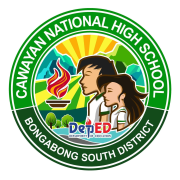
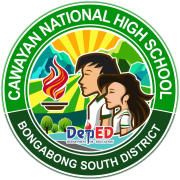
design: academic look (serif headings, gold rules), green-covered hero, seal without white edge

diff --git a/resources/js/pages/Welcome.vue b/resources/js/pages/Welcome.vue
@@ -1,26 +1,32 @@
 <script setup lang="ts">
 import { Head, Link, usePage } from '@inertiajs/vue3';
-import { CircleCheck, ClipboardList, FileText, GraduationCap, Mail, MapPin, Phone, QrCode, UserPlus } from '@lucide/vue';
+import { ClipboardCheck, FileText, GraduationCap, Mail, MapPin, Phone, QrCode, ShieldCheck, UserPlus } from '@lucide/vue';
 import { dashboard, login, register } from '@/routes';
 
 /**
- * Home page for visitors. School details come from config/eskwelahub.php (shared
- * as page.props.school) so the school can correct them without touching code.
+ * Home page. A formal, academic layout: serif headings, a gold rule, and a
+ * hero photo covered with transparent school green.
+ *
+ * HERO PHOTO: put the school's own photo at public/images/school-hero.jpg
+ * (a wide landscape picture, 1600 px or wider). It is drawn on top of
+ * hero-scenery.jpg (made from the school seal), which shows until the photo exists.
+ *
+ * School details come from config/eskwelahub.php (page.props.school).
  */
 const page = usePage();
 const school = page.props.school;
 
 const services = [
-    { icon: UserPlus, title: 'Online enrollment', text: 'New Grade 7 students and transferees fill in one form and upload their documents. No need to line up first.' },
-    { icon: FileText, title: 'Request school records', text: 'Ask for Form 137, a certificate of graduation or a certificate of enrollment, and follow every step of your request.' },
-    { icon: QrCode, title: 'Genuine documents', text: 'Every document has a QR code. Anyone can scan it to check that the school really issued it.' },
-    { icon: ClipboardList, title: 'Your records, private', text: 'Parents and learners see only their own records, after the registrar confirms who they are.' },
+    { icon: UserPlus, title: 'Online Enrollment', text: 'New Grade 7 learners and transferees submit one form with their documents. The registrar reviews it and you are told the decision by email.' },
+    { icon: FileText, title: 'Records and Certifications', text: 'Request Form 137, a certificate of graduation or a certificate of enrollment, and follow each step of the request.' },
+    { icon: QrCode, title: 'Document Verification', text: 'Every document carries a QR code. Anyone can scan it to confirm that the school issued the document.' },
+    { icon: ShieldCheck, title: 'Protected Records', text: 'Learner records are private. Parents and learners see only their own records, after the registrar confirms their identity.' },
 ];
 
 const steps = [
-    { n: 1, title: 'Create an account', text: 'Register with your email address.' },
-    { n: 2, title: 'Link the learner', text: 'Enter the learner\'s LRN and birthdate. The registrar confirms the link.' },
-    { n: 3, title: 'Enroll or request', text: 'Send your form or request and get an email at every step.' },
+    { n: 'I', title: 'Register an account', text: 'Create an account with your email address.' },
+    { n: 'II', title: 'Link the learner', text: 'Enter the learner\'s LRN and birthdate. The registrar confirms the link.' },
+    { n: 'III', title: 'Enroll or request', text: 'Send the enrollment form or the document request and follow it online.' },
 ];
 </script>
 
@@ -30,141 +36,159 @@ const steps = [
     </Head>
 
     <div class="min-h-screen bg-background text-foreground">
-        <!-- Top bar -->
-        <header class="border-b bg-background/80 backdrop-blur">
+        <!-- Official strip -->
+        <div class="bg-[#0d4a1c] text-[11px] tracking-wide text-white/85 uppercase">
+            <div class="mx-auto flex max-w-6xl flex-wrap items-center justify-between gap-x-6 gap-y-1 px-4 py-1.5">
+                <span>Republic of the Philippines &middot; Department of Education</span>
+                <span>{{ school.district }} &middot; School ID {{ school.school_id }}</span>
+            </div>
+        </div>
+        <div class="h-1 bg-gold"></div>
+
+        <!-- Header -->
+        <header class="border-b bg-background">
             <nav class="mx-auto flex max-w-6xl items-center justify-between gap-4 px-4 py-3">
                 <Link href="/" class="flex items-center gap-3">
-                    <img src="/images/cnhs-logo-96.png" srcset="/images/cnhs-logo-96.png 1x, /images/cnhs-logo-256.png 2x" alt="" class="size-10 rounded-full" />
+                    <img src="/images/cnhs-logo-96.png" srcset="/images/cnhs-logo-96.png 1x, /images/cnhs-logo-256.png 2x" alt="" class="size-12" />
                     <span class="leading-tight">
-                        <span class="block text-sm font-semibold">{{ page.props.name }}</span>
-                        <span class="block text-xs text-muted-foreground">{{ school.name }}</span>
+                        <span class="block font-serif text-lg font-bold">{{ school.name }}</span>
+                        <span class="block text-xs tracking-wide text-muted-foreground uppercase">{{ page.props.name }} &middot; School Portal</span>
                     </span>
                 </Link>
-                <div class="flex items-center gap-2">
-                    <Link
-                        v-if="page.props.auth.user"
-                        :href="dashboard()"
-                        class="rounded-md bg-primary px-4 py-2 text-sm font-medium text-primary-foreground hover:opacity-90"
-                    >
+                <div class="flex items-center gap-1 text-sm">
+                    <a href="#services" class="hidden rounded-md px-3 py-2 hover:bg-muted md:block">Services</a>
+                    <a href="#process" class="hidden rounded-md px-3 py-2 hover:bg-muted md:block">How it works</a>
+                    <a href="#contact" class="hidden rounded-md px-3 py-2 hover:bg-muted md:block">Contact</a>
+                    <Link v-if="page.props.auth.user" :href="dashboard()" class="ml-2 rounded-md bg-primary px-4 py-2 font-medium text-primary-foreground hover:opacity-90">
                         Dashboard
                     </Link>
                     <template v-else>
-                        <Link :href="login()" class="rounded-md px-4 py-2 text-sm font-medium hover:bg-muted">Log in</Link>
-                        <Link :href="register()" class="rounded-md bg-primary px-4 py-2 text-sm font-medium text-primary-foreground hover:opacity-90">
-                            Register
-                        </Link>
+                        <Link :href="login()" class="ml-2 rounded-md border px-4 py-2 font-medium hover:bg-muted">Log in</Link>
+                        <Link :href="register()" class="rounded-md bg-primary px-4 py-2 font-medium text-primary-foreground hover:opacity-90">Register</Link>
                     </template>
                 </div>
             </nav>
         </header>
 
-        <!-- Hero: the colours of the school seal (green, with the sun's yellow and orange) -->
-        <section class="relative overflow-hidden bg-gradient-to-br from-[#0b8a1c] via-[#0f6b25] to-[#14532d] text-white">
-            <div class="absolute -top-24 -right-24 size-96 rounded-full bg-[#f9d71c]/20 blur-3xl"></div>
-            <div class="absolute -bottom-32 -left-16 size-96 rounded-full bg-[#f59e0b]/15 blur-3xl"></div>
-            <div class="relative mx-auto grid max-w-6xl items-center gap-10 px-4 py-14 md:grid-cols-[1.3fr_1fr] md:py-20">
+        <!-- Hero: school photo covered with transparent green -->
+        <section class="hero relative isolate overflow-hidden text-white">
+            <div class="absolute inset-0 -z-20 bg-cover bg-center" style="background-image: url('/images/school-hero.jpg'), url('/images/hero-scenery.jpg')"></div>
+            <div class="absolute inset-0 -z-10 bg-gradient-to-r from-[#0a4d1a]/95 via-[#0d6b25]/85 to-[#0d6b25]/55"></div>
+            <div class="absolute inset-x-0 bottom-0 -z-10 h-32 bg-gradient-to-t from-[#06330f]/80 to-transparent"></div>
+
+            <div class="mx-auto grid max-w-6xl items-center gap-10 px-4 py-16 md:grid-cols-[1.4fr_1fr] md:py-24">
                 <div>
-                    <p class="mb-3 inline-block rounded-full bg-white/15 px-3 py-1 text-xs font-medium tracking-wide uppercase">
-                        {{ school.district }} - Department of Education
+                    <p class="mb-4 flex items-center gap-3 text-xs font-semibold tracking-[0.2em] text-[#f1d36a] uppercase">
+                        <span class="h-px w-10 bg-gold"></span> Office of the Registrar
                     </p>
-                    <h1 class="text-3xl leading-tight font-bold md:text-5xl">
-                        {{ school.name }}
-                        <span class="block text-[#f9d71c]">Online Portal</span>
-                    </h1>
-                    <p class="mt-4 max-w-xl text-base text-white/90 md:text-lg">
-                        Enroll online, request your school records and follow every step from your phone or computer.
+                    <h1 class="font-serif text-4xl leading-tight font-bold md:text-6xl">{{ school.name }}</h1>
+                    <p class="mt-3 font-serif text-xl text-white/90 italic md:text-2xl">Online Enrollment and Student Records Portal</p>
+                    <p class="mt-5 max-w-xl text-base text-white/85">
+                        Enroll your child, request school records and follow every step of your request, from your phone or computer.
                     </p>
-                    <div class="mt-6 flex flex-wrap gap-3">
-                        <Link :href="page.props.auth.user ? '/my-enrollments/create' : register()" class="rounded-md bg-[#f9d71c] px-5 py-2.5 text-sm font-semibold text-[#14532d] hover:bg-[#f5c800]">
-                            Enroll online
+                    <div class="mt-8 flex flex-wrap gap-3">
+                        <Link :href="page.props.auth.user ? '/my-enrollments/create' : register()" class="rounded-md bg-gold px-6 py-3 text-sm font-semibold text-[#0a3d14] shadow hover:brightness-105">
+                            Enroll Online
                         </Link>
-                        <Link :href="page.props.auth.user ? '/my-requests/create' : login()" class="rounded-md border border-white/60 px-5 py-2.5 text-sm font-semibold hover:bg-white/10">
-                            Request a document
+                        <Link :href="page.props.auth.user ? '/my-requests/create' : login()" class="rounded-md border border-white/70 px-6 py-3 text-sm font-semibold hover:bg-white/10">
+                            Request a Document
                         </Link>
                     </div>
-                    <p class="mt-6 text-sm text-white/80">Need help? Tap the round chat button at the bottom right.</p>
                 </div>
-                <div class="flex justify-center">
+                <div class="flex justify-center md:justify-end">
                     <img
                         src="/images/cnhs-logo.png"
                         :alt="`Official seal of ${school.name}`"
-                        class="size-56 rounded-full bg-white p-1 shadow-2xl ring-4 ring-white/30 md:size-72"
+                        class="size-52 drop-shadow-[0_10px_30px_rgba(0,0,0,0.45)] md:size-72"
                     />
                 </div>
             </div>
         </section>
 
-        <!-- What you can do -->
-        <section class="mx-auto max-w-6xl px-4 py-14">
-            <h2 class="text-2xl font-semibold">What you can do here</h2>
-            <div class="mt-6 grid gap-4 sm:grid-cols-2 lg:grid-cols-4">
-                <article v-for="s in services" :key="s.title" class="rounded-xl border p-5">
-                    <div class="mb-3 flex size-10 items-center justify-center rounded-lg bg-primary/10 text-primary">
-                        <component :is="s.icon" class="size-5" />
-                    </div>
-                    <h3 class="font-medium">{{ s.title }}</h3>
-                    <p class="mt-1 text-sm text-muted-foreground">{{ s.text }}</p>
+        <!-- Services -->
+        <section id="services" class="mx-auto max-w-6xl px-4 py-16">
+            <div class="mb-8 text-center">
+                <p class="text-xs font-semibold tracking-[0.2em] text-primary uppercase">What the portal offers</p>
+                <h2 class="mt-2 font-serif text-3xl font-bold">Services for Learners, Parents and Alumni</h2>
+                <div class="mx-auto mt-3 h-px w-24 bg-gold"></div>
+            </div>
+            <div class="grid gap-5 sm:grid-cols-2 lg:grid-cols-4">
+                <article v-for="s in services" :key="s.title" class="rounded-sm border border-t-4 border-t-primary bg-card p-6 shadow-sm">
+                    <component :is="s.icon" class="mb-4 size-8 text-primary" />
+                    <h3 class="font-serif text-lg font-bold">{{ s.title }}</h3>
+                    <p class="mt-2 text-sm leading-relaxed text-muted-foreground">{{ s.text }}</p>
                 </article>
             </div>
         </section>
 
-        <!-- How it works -->
-        <section class="bg-muted/40">
-            <div class="mx-auto max-w-6xl px-4 py-14">
-                <h2 class="text-2xl font-semibold">How it works</h2>
-                <ol class="mt-6 grid gap-4 md:grid-cols-3">
-                    <li v-for="s in steps" :key="s.n" class="flex gap-4 rounded-xl border bg-background p-5">
-                        <span class="flex size-9 shrink-0 items-center justify-center rounded-full bg-primary font-semibold text-primary-foreground">{{ s.n }}</span>
-                        <div>
-                            <h3 class="font-medium">{{ s.title }}</h3>
-                            <p class="mt-1 text-sm text-muted-foreground">{{ s.text }}</p>
-                        </div>
+        <!-- Process -->
+        <section id="process" class="border-y bg-muted/40">
+            <div class="mx-auto max-w-6xl px-4 py-16">
+                <div class="mb-8 text-center">
+                    <p class="text-xs font-semibold tracking-[0.2em] text-primary uppercase">Getting started</p>
+                    <h2 class="mt-2 font-serif text-3xl font-bold">How It Works</h2>
+                    <div class="mx-auto mt-3 h-px w-24 bg-gold"></div>
+                </div>
+                <ol class="grid gap-5 md:grid-cols-3">
+                    <li v-for="s in steps" :key="s.n" class="relative rounded-sm border bg-background p-6">
+                        <span class="font-serif text-4xl font-bold text-gold">{{ s.n }}</span>
+                        <h3 class="mt-2 font-serif text-lg font-bold">{{ s.title }}</h3>
+                        <p class="mt-1 text-sm text-muted-foreground">{{ s.text }}</p>
                     </li>
                 </ol>
-                <p class="mt-6 flex items-center gap-2 text-sm text-muted-foreground">
-                    <GraduationCap class="size-4" /> The registrar and the principal log in with two-step verification.
+                <p class="mt-8 flex items-center justify-center gap-2 text-sm text-muted-foreground">
+                    <ClipboardCheck class="size-4" /> The registrar and the principal sign in with two-step verification.
                 </p>
             </div>
         </section>
 
         <!-- Contact -->
-        <section class="mx-auto max-w-6xl px-4 py-14">
-            <h2 class="text-2xl font-semibold">Contact the school</h2>
-            <div class="mt-6 grid gap-4 md:grid-cols-3">
-                <div class="flex gap-3 rounded-xl border p-5">
-                    <MapPin class="mt-0.5 size-5 shrink-0 text-primary" />
+        <section id="contact" class="mx-auto max-w-6xl px-4 py-16">
+            <div class="mb-8 text-center">
+                <p class="text-xs font-semibold tracking-[0.2em] text-primary uppercase">Visit or write to us</p>
+                <h2 class="mt-2 font-serif text-3xl font-bold">Contact the School</h2>
+                <div class="mx-auto mt-3 h-px w-24 bg-gold"></div>
+            </div>
+            <div class="grid gap-5 md:grid-cols-3">
+                <div class="flex gap-4 rounded-sm border bg-card p-6">
+                    <MapPin class="mt-1 size-6 shrink-0 text-primary" />
                     <div class="text-sm">
-                        <div class="font-medium">Address</div>
-                        <div class="text-muted-foreground">{{ school.name }}<br />{{ school.address }}</div>
+                        <div class="font-serif text-base font-bold">Address</div>
+                        <div class="mt-1 text-muted-foreground">{{ school.name }}<br />{{ school.address }}</div>
                     </div>
                 </div>
-                <div class="flex gap-3 rounded-xl border p-5">
-                    <Phone class="mt-0.5 size-5 shrink-0 text-primary" />
+                <div class="flex gap-4 rounded-sm border bg-card p-6">
+                    <Phone class="mt-1 size-6 shrink-0 text-primary" />
                     <div class="text-sm">
-                        <div class="font-medium">Mobile</div>
-                        <a :href="`tel:${school.phone.replace(/\s/g, '')}`" class="text-muted-foreground hover:underline">{{ school.phone }}</a>
+                        <div class="font-serif text-base font-bold">Mobile</div>
+                        <a :href="`tel:${school.phone.replace(/\s/g, '')}`" class="mt-1 block text-muted-foreground hover:underline">{{ school.phone }}</a>
                     </div>
                 </div>
-                <div class="flex gap-3 rounded-xl border p-5">
-                    <Mail class="mt-0.5 size-5 shrink-0 text-primary" />
+                <div class="flex gap-4 rounded-sm border bg-card p-6">
+                    <Mail class="mt-1 size-6 shrink-0 text-primary" />
                     <div class="text-sm">
-                        <div class="font-medium">Email</div>
-                        <a :href="`mailto:${school.email}`" class="text-muted-foreground hover:underline">{{ school.email }}</a>
-                        <div class="mt-1">
-                            <a :href="school.facebook" target="_blank" rel="noopener" class="text-primary hover:underline">Official Facebook page</a>
-                        </div>
+                        <div class="font-serif text-base font-bold">Email</div>
+                        <a :href="`mailto:${school.email}`" class="mt-1 block text-muted-foreground hover:underline">{{ school.email }}</a>
+                        <a :href="school.facebook" target="_blank" rel="noopener" class="mt-1 block text-primary hover:underline">Official Facebook page</a>
                     </div>
                 </div>
             </div>
         </section>
 
-        <footer class="border-t">
-            <div class="mx-auto flex max-w-6xl flex-col gap-2 px-4 py-6 text-xs text-muted-foreground md:flex-row md:items-center md:justify-between">
-                <p class="flex items-center gap-2">
-                    <CircleCheck class="size-4 text-primary" />
-                    {{ school.name }} - {{ school.district }} - School ID {{ school.school_id }}
-                </p>
-                <p>Established by {{ school.established_by }}. Your information is handled under the Data Privacy Act (RA 10173).</p>
+        <!-- Footer -->
+        <footer class="bg-[#0d4a1c] text-white/85">
+            <div class="h-1 bg-gold"></div>
+            <div class="mx-auto grid max-w-6xl gap-8 px-4 py-10 md:grid-cols-[auto_1fr_1fr]">
+                <img src="/images/cnhs-logo-96.png" srcset="/images/cnhs-logo-96.png 1x, /images/cnhs-logo-256.png 2x" alt="" class="size-16" />
+                <div class="text-sm">
+                    <div class="font-serif text-lg font-bold text-white">{{ school.name }}</div>
+                    <div>{{ school.address }}</div>
+                    <div>{{ school.district }} &middot; School ID {{ school.school_id }}</div>
+                </div>
+                <div class="flex items-start gap-2 text-xs text-white/70">
+                    <GraduationCap class="mt-0.5 size-4 shrink-0" />
+                    <p>Established by {{ school.established_by }}. Personal information is handled under the Data Privacy Act of 2012 (RA 10173).</p>
+                </div>
             </div>
         </footer>
     </div>

diff --git a/resources/js/layouts/auth/AuthSimpleLayout.vue b/resources/js/layouts/auth/AuthSimpleLayout.vue
@@ -1,5 +1,5 @@
 <script setup lang="ts">
-import { Link } from '@inertiajs/vue3';
+import { Link, usePage } from '@inertiajs/vue3';
 import AppLogoIcon from '@/components/AppLogoIcon.vue';
 import { home } from '@/routes';
 
@@ -7,6 +7,8 @@ defineProps<{
     title?: string;
     description?: string;
 }>();
+
+const school = usePage().props.school;
 </script>
 
 <template>
@@ -29,6 +31,8 @@ defineProps<{
                         </div>
                         <span class="sr-only">{{ title }}</span>
                     </Link>
+                    <p class="-mt-2 text-center font-serif text-sm font-semibold tracking-wide">{{ school.name }}</p>
+                    <div class="-mt-2 h-px w-16 bg-gold"></div>
                     <div class="space-y-2 text-center">
                         <h1 class="text-xl font-medium">{{ title }}</h1>
                         <p class="text-center text-sm text-muted-foreground">

diff --git a/resources/css/app.css b/resources/css/app.css
@@ -13,6 +13,10 @@
         'Apple Color Emoji', 'Segoe UI Emoji', 'Segoe UI Symbol',
         'Noto Color Emoji';
 
+    /* Headings use a classic serif face for a formal, academic look (system fonts: nothing to download). */
+    --font-serif: Georgia, Cambria, 'Times New Roman', 'Noto Serif', serif;
+    --color-gold: #c9a227; /* the gold of academic ribbons: thin rules and small accents */
+
     --radius-lg: var(--radius);
     --radius-md: calc(var(--radius) - 2px);
     --radius-sm: calc(var(--radius) - 4px);
@@ -139,5 +143,11 @@
 
     body {
         @apply bg-background text-foreground;
+    }
+
+    h1,
+    h2 {
+        font-family: var(--font-serif);
+        letter-spacing: -0.005em;
     }
 }

diff --git a/resources/js/components/AppLogo.vue b/resources/js/components/AppLogo.vue
@@ -8,7 +8,7 @@ const page = usePage();
 <template>
     <AppLogoIcon class-name="size-9 shrink-0" />
     <div class="ml-1 grid flex-1 text-left text-sm">
-        <span class="truncate leading-tight font-semibold">{{ page.props.name }}</span>
+        <span class="truncate font-serif leading-tight font-bold">{{ page.props.name }}</span>
         <span class="truncate text-[11px] leading-tight text-muted-foreground">{{ page.props.school.short_name }}</span>
     </div>
 </template>

diff --git a/docs/SCHOOL_INFO_NEEDED.md b/docs/SCHOOL_INFO_NEEDED.md
@@ -67,6 +67,10 @@ The chatbot answers only what is written in its FAQ table. Please give the schoo
 - [ ] Who to contact for complaints and for technical problems
 - [ ] Any announcement channel besides Facebook
 
+### H. Photos and branding
+- [ ] A wide, good-quality **photo of the school** (building or grounds) for the home page, with the school's permission to use it. Save it as `public/images/school-hero.jpg` (1600 px wide or more); the green cover is added by the page. Until then the page shows a backdrop made from the school seal.
+- [ ] The official seal as a high-resolution file with transparent background, if the school has one
+
 ### G. Technology
 - [ ] Who will **host and maintain** the system (the school's ICT coordinator, the capstone group, a company)?
 - [ ] Hosting plan on Hostinger, the **PHP version** offered (needs 8.3 or higher), and the web address (subdomain) the school wants
